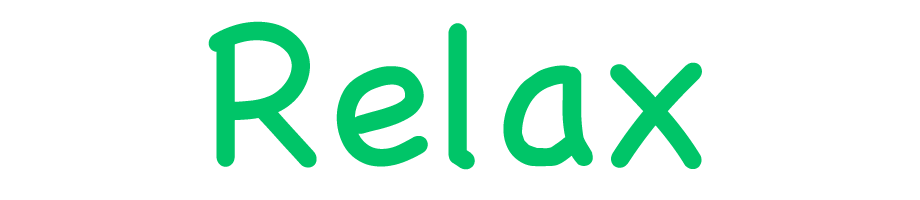
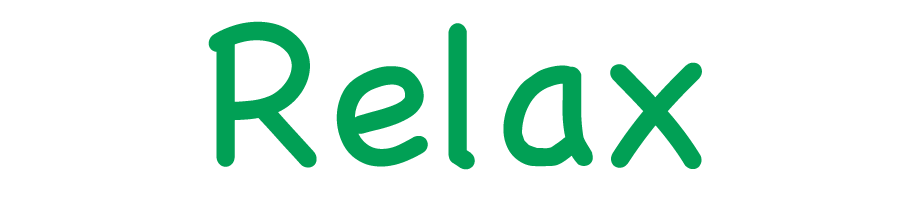
修改图片颜色

Changed region(s): [[0.213, 0.09, 0.5174, 0.84], [0.5478, 0.3, 0.7609, 0.84]]

diff --git a/README.md b/README.md
@@ -3,11 +3,12 @@
 <img width="810" height="180" src="https://github.com/UCodeUStory/Relax/blob/master/source/relax.png"/>
 </div>
 
+<div align="center">
 ![Language](https://img.shields.io/badge/language-Kotlin-EE0000.svg)
 ![](https://img.shields.io/badge/QQ-1483888222-green.svg)
 ![SDK](https://img.shields.io/badge/SDK-14%2B-orange.svg)
 [![License](https://img.shields.io/apm/l/vim-mode.svg)](https://github.com/UCodeUStory/Relax/tree/master/LICENSE)
-
+</div>
 
 Relax 基于Kotlin语言编写的一套组件化框架，内部可以实现灵活的配置
 
